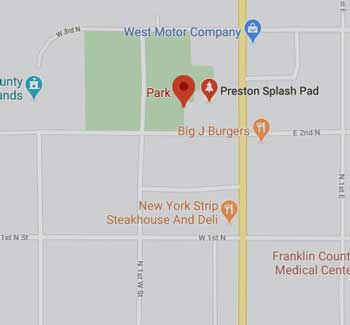
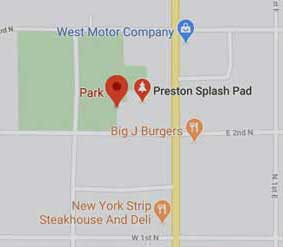
commit

diff --git a/lesson11/css/small.css b/lesson11/css/small.css
@@ -231,14 +231,16 @@ grid-item {
   display: none;
 }
 
-#map img {
-  width: 100%;
-}
-
 #address {
   padding: 1em;
   margin: 1em;
   text-align: center;
+}
+
+#map{
+max-width: 283px;
+margin-left: auto;
+margin-right: auto;
 }
 
 footer {

diff --git a/lesson11/css/medium.css b/lesson11/css/medium.css
@@ -96,6 +96,11 @@
 		max-width: 520px;
 	}
 
+	#map{
+	
+		margin: 0px;
+		}
+
 	#address,
 	#address h3 {
 		text-align: left;
